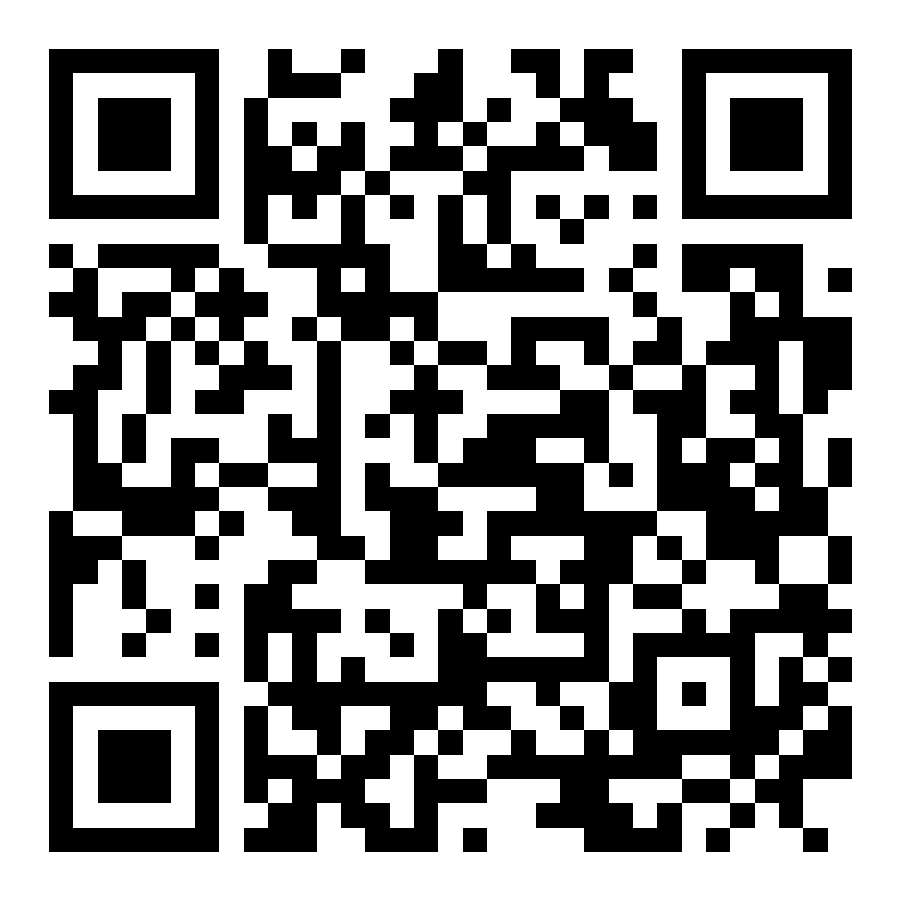
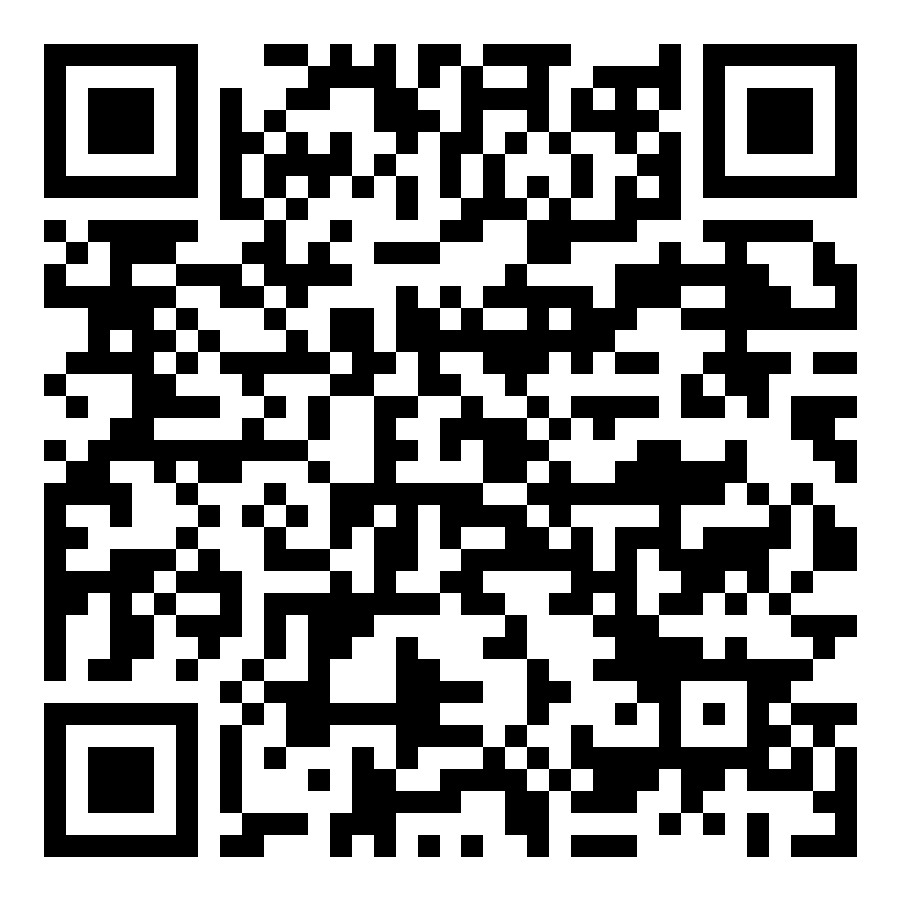
Adresse publique : cartes servies par le site des restaurants (carte-galette/)
Le QR code et la page Publier pointent vers
https://viktor-guignard.github.io/la-coursive-site/carte-galette/carte.html

Claude-Session: https://claude.ai/code/session_014aNwerFKka7aNuCCrqmi84

diff --git a/menus-config.js b/menus-config.js
@@ -6,7 +6,7 @@ window.CARTE_MENUS = [
   { key: 'pizzas-en', label: 'Pizzas (EN)',       hint: 'English',          slug: 'pizzas-en' },
   { key: 'emporter',  label: 'Vente à emporter',  hint: 'Affiche 46×66',    slug: 'vente-a-emporter' },
 ];
-window.CARTE_PUBLIC_URL = 'https://viktor-guignard.github.io/La-galette/carte.html';
+window.CARTE_PUBLIC_URL = 'https://viktor-guignard.github.io/la-coursive-site/carte-galette/carte.html';
 
 window.currentMenuKey = function () {
   const k = new URLSearchParams(location.search).get('menu');

diff --git a/README.md b/README.md
@@ -1,6 +1,6 @@
 # Éditeur de cartes — La Galette
 
-**Site : https://viktor-guignard.github.io/La-galette/**
+**Site : https://viktor-guignard.github.io/la-coursive-site/carte-galette/** (servi par le site des restaurants, dossier `carte-galette/`)
 
 Les cartes de La Galette (restaurant savoyard · pizzéria · crêperie), refaites à l'identique des PDF d'origine et modifiables sans aucune compétence en mise en page :
 
